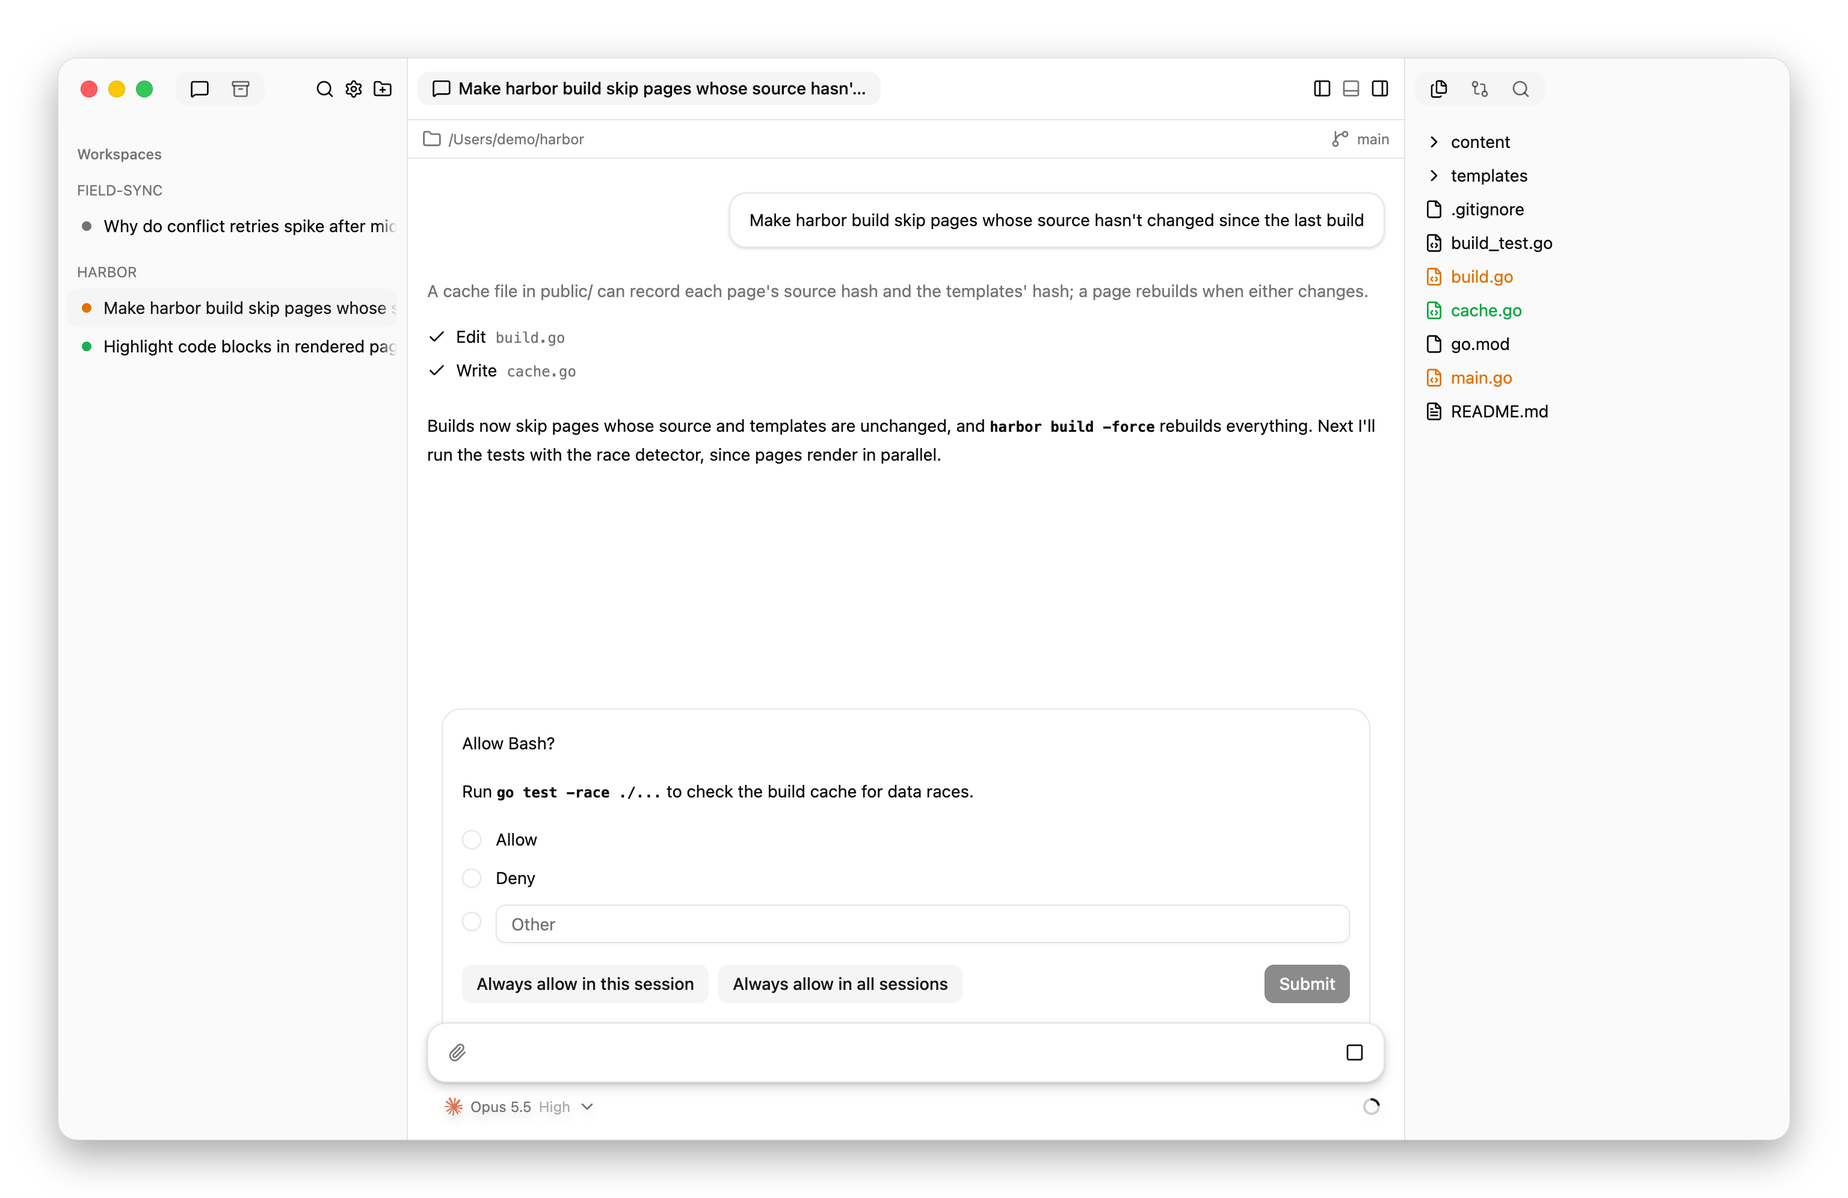
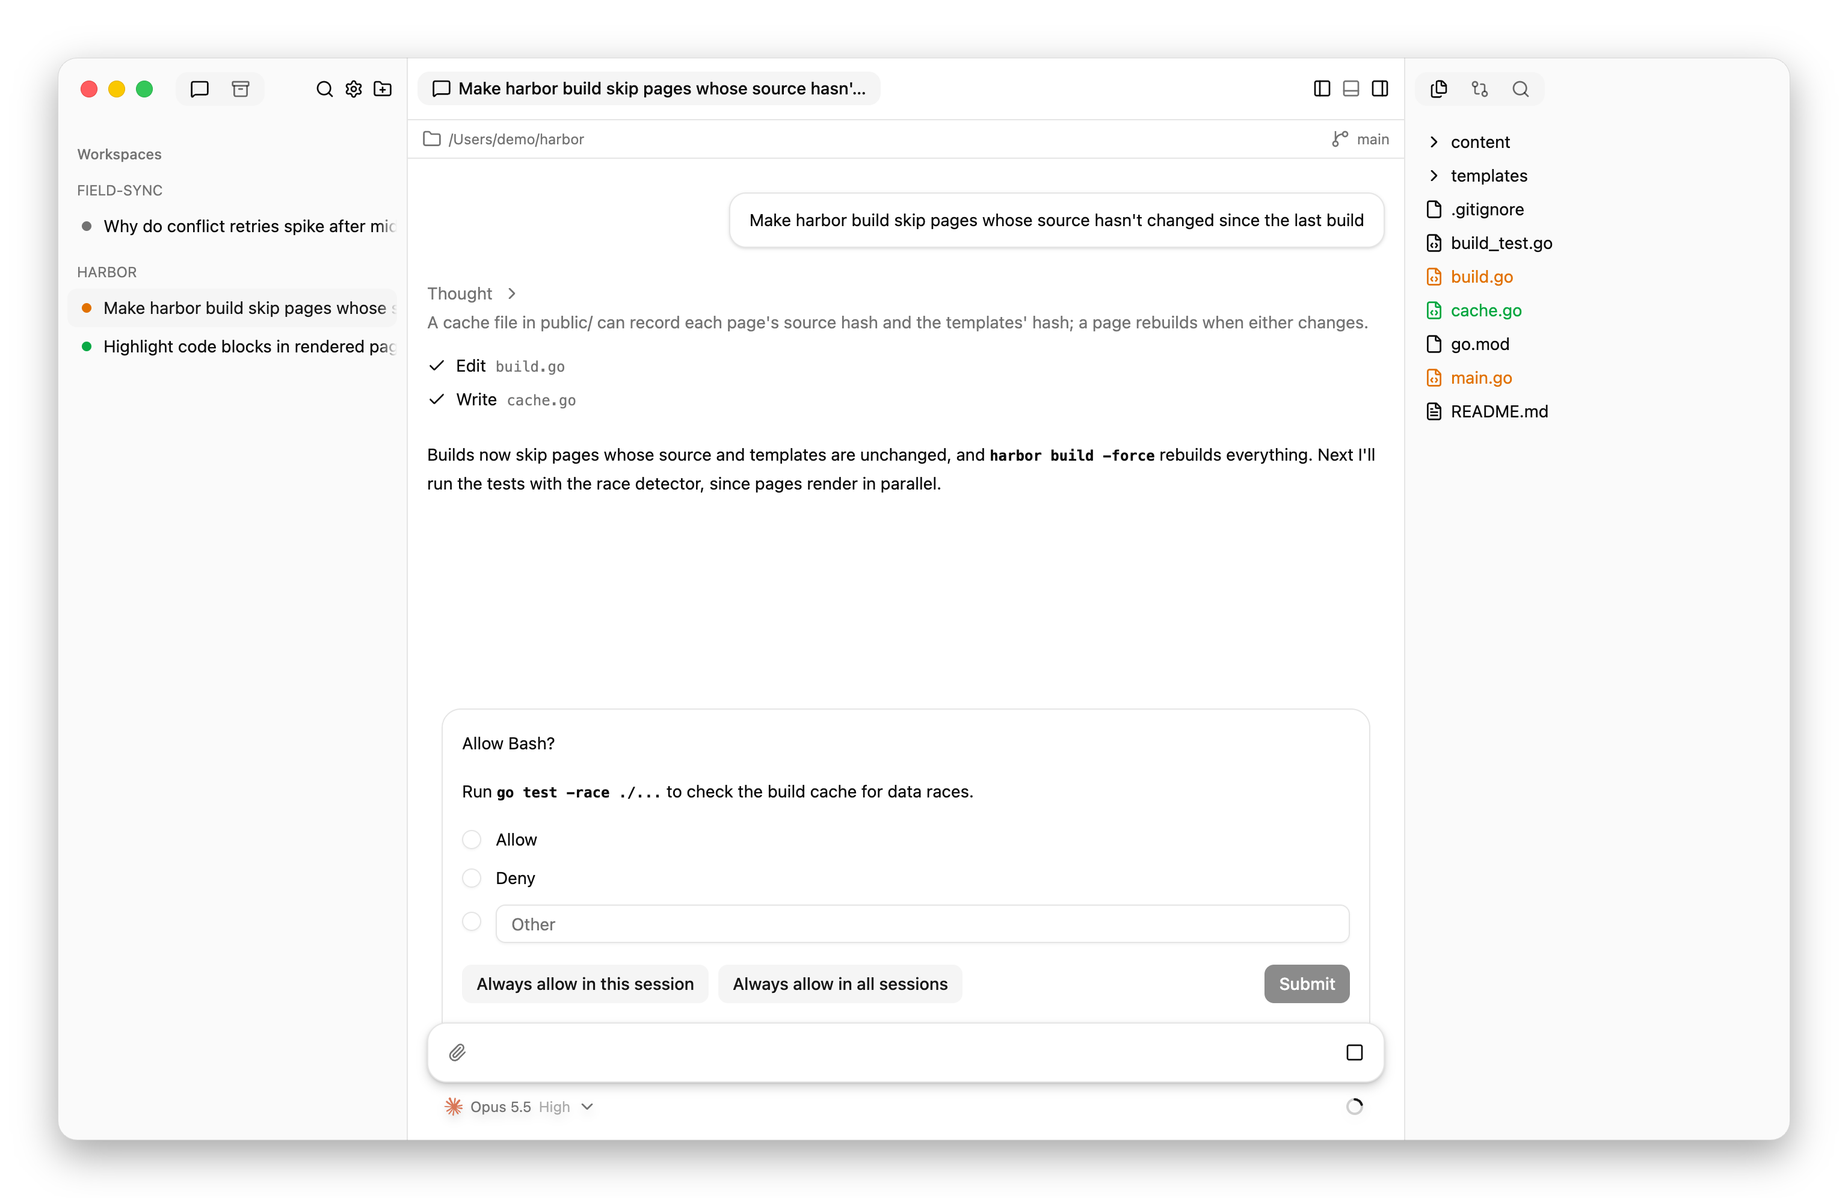
Show quiet turns, fold long reasoning, and align the context ring
A running turn that sends nothing for three seconds ends the transcript
with a Working row. Adjacent reasoning draws as one row: short reasoning
shows in full, and longer reasoning shows its last three lines, one line
on screen each, under a Thinking heading that opens to the whole trace.
The context ring centers under the send and stop button.

Changed region(s): [[0.2188, 0.2179, 0.75, 0.4046], [0.7188, 0.9026, 0.75, 0.9337]]

diff --git a/internal/ui/web/transcript/transcript.test.tsx b/internal/ui/web/transcript/transcript.test.tsx
@@ -1,16 +1,19 @@
-import {afterEach, expect, mock, spyOn, test} from 'bun:test';
+import {afterEach, expect, jest, mock, spyOn, test} from 'bun:test';
 import {act} from 'react';
 import {clickControl, element, find, findAll, mount, setValue, stubFetch, unmountAll} from '../../test-render.tsx';
 import {testSession, testState, testWorkspace} from '../../test-state.ts';
 import {emptySession} from '../sessions/selection.ts';
 import {createStore} from '../store.ts';
 import {Transcript} from './transcript.tsx';
+import {quietDelay} from './quiet-turn.tsx';
+import {lineLength} from './reasoning-item.tsx';
 import {receivedTranscript} from './transcripts.ts';
 import type {Item, WorkState} from './types.ts';
 
 afterEach(() => {
   mock.restore();
   unmountAll();
+  jest.useRealTimers();
 });
 
 // requestParams are the query parameters of the nth fetch.
@@ -344,6 +347,90 @@ test('a turn draws as it runs and folds its activity under Worked for once it fi
   expect(list.children[1].querySelector('button')!.textContent).toBe('Worked for 1s');
   expect(root.textContent).not.toContain('Run command');
   expect(list.children[2].textContent).toBe('Done');
+});
+
+const working = (root: ParentNode) => findAll(root, '[role=status]').find(row => row.textContent === 'Working…');
+const wait = (ms: number) => act(() => jest.advanceTimersByTime(ms));
+
+test('a running turn that sends nothing for a while ends the list with a working row until output arrives', () => {
+  jest.useFakeTimers();
+  const {root, send} = setup([
+    {id: 'u', kind: 'user', text: 'Go', at: 1000},
+    marker('w', 'working', 1100),
+  ]);
+  wait(quietDelay - 1);
+  expect(working(root)).toBeUndefined();
+  wait(1);
+  expect(find(root, '[aria-label="Transcript"]').lastElementChild).toBe(working(root)!);
+  send([{id: 't', kind: 'text', text: 'Part', at: 1200}]);
+  expect(working(root)).toBeUndefined();
+  wait(quietDelay - 1);
+  send([{id: 't', kind: 'text', text: 'Partial answer', at: 1200, seq: 3}]);
+  wait(quietDelay - 1);
+  expect(working(root)).toBeUndefined();
+  wait(1);
+  expect(working(root)).toBeDefined();
+});
+
+test('a running tool, an open question, or an idle session shows no working row', () => {
+  jest.useFakeTimers();
+  const start: NewItem[] = [{id: 'u', kind: 'user', text: 'Go', at: 1000}, marker('w', 'working', 1100)];
+  const tool = setup([...start, {id: 'c', kind: 'tool', tool: 'bash', at: 1200}]);
+  const question = setup([...start, {id: 'q', kind: 'attention', text: 'Allow?', choices: ['ok'], at: 1200}]);
+  const idle = setup(start, testSession({id: 's', activity: 'idle'}));
+  wait(quietDelay);
+  for (const {root} of [tool, question, idle]) expect(working(root)).toBeUndefined();
+  tool.send([{id: 'c', kind: 'tool', tool: 'bash', at: 1200, done: true, seq: 3}]);
+  wait(quietDelay);
+  expect(working(tool.root)).toBeDefined();
+});
+
+test('an open proposal, which does not stop the agent, still shows the working row', () => {
+  jest.useFakeTimers();
+  const {root} = setup([
+    {id: 'u', kind: 'user', text: 'Go', at: 1000},
+    marker('w', 'working', 1100),
+    {id: 'p', kind: 'proposal', text: 'Later', input: {name: 'later', title: 'Later', settings: {harness: 'codex', model: 'm', effort: 'low'}}},
+  ]);
+  wait(quietDelay);
+  expect(working(root)).toBeDefined();
+});
+
+test('short reasoning shows in full without a heading', () => {
+  const {root} = setup([
+    {id: 'u', kind: 'user', text: 'Go'},
+    {id: 'r1', kind: 'reasoning', text: 'First idea'},
+    {id: 'r2', kind: 'reasoning', text: 'Second'},
+  ]);
+  expect(findAll(root, 'button[aria-expanded]')).toHaveLength(0);
+  expect(find(root, '[aria-label="Transcript"]').textContent).toBe('GoFirst ideaSecond');
+});
+
+test('long reasoning shows its last lines under Thinking, opens to its whole trace while it streams, and reads Thought once done', () => {
+  const {root, send} = setup([
+    {id: 'u', kind: 'user', text: 'Go'},
+    {id: 'r1', kind: 'reasoning', text: 'One\nTwo'},
+    {id: 'r2', kind: 'reasoning', text: 'Three\n\nFour'},
+  ]);
+  const thinking = toggle(root, 'Thinking…');
+  expect(thinking.getAttribute('aria-expanded')).toBe('false');
+  expect(find(root, '[aria-label="Transcript"]').textContent).toBe('GoThinking…TwoThreeFour');
+  act(() => thinking.click());
+  expect(root.textContent).toContain('One\nTwo');
+  send([{id: 'r2', kind: 'reasoning', text: 'Three\n\nFour\nFive', seq: 3}]);
+  expect(root.textContent).toContain('Four\nFive');
+  send([{id: 'r1', kind: 'reasoning', text: 'One\nTwo', done: true, seq: 2}, {id: 'r2', kind: 'reasoning', text: 'Three\n\nFour\nFive', done: true, seq: 3}]);
+  expect(thinking.textContent).toBe('Thought');
+  act(() => thinking.click());
+  expect(find(root, '[aria-label="Transcript"]').textContent).toBe('GoThoughtThreeFourFive');
+});
+
+test('a long reasoning line puts the run under Thinking, one line on screen per line', () => {
+  const line = 'x'.repeat(lineLength + 1);
+  const {root} = setup([{id: 'r', kind: 'reasoning', text: 'Short\n' + line}]);
+  expect(toggle(root, 'Thinking…')).toBeDefined();
+  const shown = findAll(root, 'p.truncate');
+  expect(shown.map(p => p.textContent)).toEqual(['Short', line]);
 });
 
 test('empty reasoning and text do not create an empty activity disclosure', () => {

diff --git a/internal/ui/web/transcript/transcript-tree.ts b/internal/ui/web/transcript/transcript-tree.ts
@@ -3,7 +3,7 @@
 // An item nests under its parent tool call when the parent is present. A call
 // that sends a message to a session draws as a message. The rows are rebuilt
 // from the whole list, so an item that arrives before its parent moves under
-// the parent when it arrives.
+// the parent when it arrives. Adjacent reasoning items draw as one row.
 //
 // Hypercube saves a state item at each change of the agent's work state. The
 // items between a working state and the next idle one are one turn's activity.
@@ -18,12 +18,19 @@ import type {AttentionItem, ProposalItem, ErrorItem, Item, ReasoningItem, StateI
 // A row is what the page draws for an item.
 export type ItemRow =
   | {type: 'user'; item: UserItem}
-  | {type: 'reasoning'; item: ReasoningItem}
+  | ReasoningRow
   | {type: 'text'; item: TextItem}
   | {type: 'error'; item: ErrorItem}
   | {type: 'attention'; item: AttentionItem}
   | {type: 'message'; item: ToolItem}
   | {type: 'proposal'; item: ProposalItem};
+
+// ReasoningRow is a run of adjacent reasoning items, named by the first.
+export interface ReasoningRow {
+  type: 'reasoning';
+  item: ReasoningItem;
+  items: ReasoningItem[];
+}
 
 // ToolRow is a tool call with the rows nested under it.
 export interface ToolRow {
@@ -82,14 +89,12 @@ export function pendingGroups<T extends Item>(pending: T[]): T[][] {
   return groups;
 }
 
-// Some models report their reasoning only as a bold title per step. A run of
-// such titles draws as one row showing the latest.
-const isHeading = (item: Item): boolean => item.kind === 'reasoning' && /^\*\*[^*\n]+\*\*$/.test(item.text?.trim() ?? '');
-
 // transcriptRows returns the rows of a transcript.
 export function transcriptRows(transcript: Transcript): Row[] {
   const {order, items} = transcript;
   const containers = new Map<string, Item[]>();
+  // Each run of reasoning, under the ID of its first item.
+  const reasoning = new Map<string, ReasoningItem[]>();
   for (let i = 0; i < order.length; i++) {
     const item = items[order[i]];
     // Harnesses may record reasoning without exposing its text, or empty text
@@ -100,10 +105,15 @@ export function transcriptRows(transcript: Transcript): Row[] {
     if (isPending(item)) continue;
     const parent = item.parent === undefined ? undefined : items[item.parent];
     const container = parent?.kind === 'tool' && !isMessage(parent) ? parent.id : '';
-    const siblings = containers.get(container);
-    if (!siblings) containers.set(container, [item]);
-    else if (isHeading(item) && isHeading(siblings[siblings.length - 1])) siblings[siblings.length - 1] = item;
-    else siblings.push(item);
+    const siblings = containers.get(container) ?? [];
+    containers.set(container, siblings);
+    const last = siblings.at(-1);
+    if (item.kind === 'reasoning' && last?.kind === 'reasoning') {
+      reasoning.get(last.id)?.push(item);
+      continue;
+    }
+    if (item.kind === 'reasoning') reasoning.set(item.id, [item]);
+    siblings.push(item);
   }
   const rowOf = (item: Exclude<Item, StateItem>): TurnRow => {
     switch (item.kind) {
@@ -113,7 +123,7 @@ export function transcriptRows(transcript: Transcript): Row[] {
         return {type: 'tool', item, children};
       }
       case 'user': return {type: 'user', item};
-      case 'reasoning': return {type: 'reasoning', item};
+      case 'reasoning': return {type: 'reasoning', item, items: reasoning.get(item.id) ?? [item]};
       case 'error': return {type: 'error', item};
       case 'attention': return {type: 'attention', item};
       case 'proposal': return {type: 'proposal', item};

diff --git a/internal/ui/web/transcript/transcript.tsx b/internal/ui/web/transcript/transcript.tsx
@@ -5,7 +5,8 @@
 // below the scrolling view, so the scrollbar stops above it.
 // The list, the pending card, and the composer share one padded column.
 // Expanding or collapsing an item keeps its heading where it was on screen,
-// and the list follows its end again only if that leaves it there.
+// and the list follows its end again only if that leaves it there. A running
+// turn that has sent nothing for a while ends the list with a working row.
 import {Fragment, useLayoutEffect, useMemo, useRef, type MouseEvent, type ReactNode} from 'react';
 import {focusComposerField} from '../agent/focus-composer.ts';
 import {isUnsent} from '../agent/drafts.ts';
@@ -21,6 +22,7 @@ import {submissionsOf} from '../sessions/submissions.ts';
 import {tones} from '../shared/tones.ts';
 import {AttentionItem} from './attention-item.tsx';
 import {QuestionsForm} from './attention-form.tsx';
+import {QuietTurn, runsTool, useQuiet} from './quiet-turn.tsx';
 import {ProposalItem} from './proposal-item.tsx';
 import {TranscriptRow} from './transcript-item.tsx';
 import {isPending, isQuestion, pendingGroups, transcriptRows} from './transcript-tree.ts';
@@ -28,7 +30,7 @@ import {displayedTranscript} from './transcripts.ts';
 import type {AttentionItem as Attention} from './types.ts';
 
 interface TranscriptProps {
-  session: Pick<Session, 'id' | 'ended'>;
+  session: Pick<Session, 'id' | 'ended' | 'activity'>;
   active?: boolean;
   footer?: ReactNode;
 }
@@ -40,6 +42,8 @@ export function Transcript({session, active = true, footer}: TranscriptProps) {
   const ready = isUnsent(session.id) || (state.session?.transcriptReady ?? false);
   const rows = useMemo(() => transcriptRows(transcript), [transcript]);
   const pending = transcript.order.map(id => transcript.items[id]).filter(isPending);
+  const quiet = useQuiet(transcript, session.activity === 'busy' && !session.ended && !pending.some(item => item.kind === 'attention')
+    && !runsTool(transcript) && !submissions.some(entry => entry.status === 'sending'));
 
   const view = useRef<HTMLDivElement>(null), list = useRef<HTMLElement>(null);
   const {away, followEnd, holdPosition} = useScrollMemory(view, session.id, ready, true);
@@ -89,6 +93,7 @@ export function Transcript({session, active = true, footer}: TranscriptProps) {
               </div>}
             </Fragment>;
           })}
+          {quiet && <QuietTurn />}
         </section>
       </div>
       <div className="relative flex max-h-3/4 min-h-0 shrink-0 flex-col bg-tab">

diff --git a/internal/ui/web/transcript/reasoning-item.tsx b/internal/ui/web/transcript/reasoning-item.tsx
@@ -1,0 +1,39 @@
+// A run of reasoning draws as one row. A short run shows in full. A longer
+// one shows a Thinking heading, or Thought once every item in the run is done,
+// over its last lines, each cut to one line on screen so the row's height
+// stays the same while the agent reasons. Opening it shows the whole trace,
+// which grows as the agent reasons; the last lines slide closed as the trace
+// slides open.
+import {Collapsible, CollapsibleContent} from '../components/ui/collapsible';
+import {Disclosure, useExpanded} from './disclosure.tsx';
+import {Markdown, MarkdownText} from './markdown.tsx';
+import type {ReasoningRow} from './transcript-tree.ts';
+
+// shownLines is how many lines of reasoning show without opening it. A run
+// shows in full when it has no more lines than that and none is longer than
+// lineLength characters.
+export const shownLines = 3;
+export const lineLength = 100;
+
+export function ReasoningItem({row}: {row: ReasoningRow}) {
+  const [open] = useExpanded(row.item.id);
+  const texts = row.items.map(item => item.text?.trim() ?? '');
+  const lines = texts.flatMap(text => text.split('\n')).map(line => line.trim()).filter(Boolean);
+  if (lines.length <= shownLines && lines.every(line => line.length <= lineLength)) {
+    return <div className="text-muted-foreground">{lines.map((line, i) => <p key={i} className="break-words"><MarkdownText text={line} /></p>)}</div>;
+  }
+  const thinking = row.items.some(item => !item.done);
+  const first = lines.length - shownLines;
+  return <div className="text-muted-foreground">
+    <Disclosure id={row.item.id} summary={thinking ? 'Thinking…' : 'Thought'}>
+      <div className="mt-2 flex flex-col gap-3">
+        {row.items.map((item, i) => <Markdown key={item.id} text={texts[i]} style="chat" muted />)}
+      </div>
+    </Disclosure>
+    <Collapsible open={!open}>
+      <CollapsibleContent>
+        {lines.slice(Math.max(0, first)).map((line, i) => <p key={first + i} className="truncate"><MarkdownText text={line} /></p>)}
+      </CollapsibleContent>
+    </Collapsible>
+  </div>;
+}

diff --git a/internal/ui/web/transcript/quiet-turn.tsx b/internal/ui/web/transcript/quiet-turn.tsx
@@ -1,0 +1,42 @@
+// While a turn runs and its transcript stays unchanged for a few seconds, a
+// row at the end of the transcript shows that the agent is still working. An
+// agent can reason or write a long tool input without sending anything. A
+// running tool shows its own status, so the row waits only on the agent.
+import {useEffect, useState} from 'react';
+import {BusyDot} from '../shared/busy-dot.tsx';
+import type {Transcript} from './types.ts';
+
+// quietDelay is how long, in milliseconds, a running turn sends nothing
+// before the row shows.
+export const quietDelay = 3000;
+
+// runsTool reports a tool call still running in the latest turn, which
+// begins after the transcript's last state item.
+export function runsTool({order, items}: Transcript): boolean {
+  for (let i = order.length - 1; i >= 0; i--) {
+    const item = items[order[i]];
+    if (item.kind === 'state') return false;
+    if (item.kind === 'tool' && !item.done) return true;
+  }
+  return false;
+}
+
+// useQuiet reports whether transcript has stayed the same for quietDelay
+// while waiting.
+export function useQuiet(transcript: Transcript, waiting: boolean): boolean {
+  const [quietOn, setQuietOn] = useState<Transcript | null>(null);
+  useEffect(() => {
+    if (!waiting) return;
+    const timer = setTimeout(() => setQuietOn(transcript), quietDelay);
+    return () => clearTimeout(timer);
+  }, [transcript, waiting]);
+  return waiting && quietOn === transcript;
+}
+
+// QuietTurn lines its dot up with the status column of tool calls.
+export function QuietTurn() {
+  return <div role="status" className="flex items-center py-1 text-muted-foreground">
+    <span aria-hidden className="flex h-5 w-6 shrink-0 items-center"><BusyDot title="Working" /></span>
+    Working…
+  </div>;
+}

diff --git a/internal/ui/web/transcript/transcript-item.tsx b/internal/ui/web/transcript/transcript-item.tsx
@@ -1,5 +1,5 @@
-// Draws one transcript row with the component for its kind, and draws text,
-// reasoning, and error items, which need no component of their own.
+// Draws one transcript row with the component for its kind, and draws text
+// and error items, which need no component of their own.
 import {memo} from 'react';
 import {Alert, AlertDescription} from '../components/ui/alert';
 import {ActivityItem} from './activity-item.tsx';
@@ -8,6 +8,7 @@ import {CopyButton} from './copy-button.tsx';
 import {Markdown} from './markdown.tsx';
 import {MessageItem} from './message-item.tsx';
 import {AnsweredProposal} from './proposal-item.tsx';
+import {ReasoningItem} from './reasoning-item.tsx';
 import {ToolCall} from './tool-items.tsx';
 import {TranscriptImages} from './transcript-images.tsx';
 import type {Row} from './transcript-tree.ts';
@@ -31,7 +32,7 @@ export const TranscriptRow = memo(({row}: {row: Row}) => {
     case 'tool': return <ToolCall call={row} />;
     case 'message': return <MessageItem item={row.item} />;
     case 'user': return <MessageItem item={row.item} />;
-    case 'reasoning': return row.item.text ? <Markdown text={row.item.text} style="chat" muted /> : null;
+    case 'reasoning': return <ReasoningItem row={row} />;
     case 'attention': return <AnsweredItem item={row.item} />;
     case 'proposal': return <AnsweredProposal item={row.item} />;
     case 'error': return <Alert variant="destructive"><AlertDescription className="whitespace-pre-wrap">{row.item.text ?? ''}</AlertDescription></Alert>;

diff --git a/internal/ui/web/transcript/transcript-tree.test.ts b/internal/ui/web/transcript/transcript-tree.test.ts
@@ -171,10 +171,14 @@ test('history omits open requests and keeps answered requests under their calls'
   expect(toolAt([parent], 0).children.map(row => row.item.id)).toEqual(['answered']);
 });
 
-test('a run of reasoning titles draws as its latest title', () => {
+test('adjacent reasoning draws as one row named by its first item', () => {
   const reasoning = (id: string, text: string): TranscriptItem => ({id, kind: 'reasoning', text, seq: 0});
-  expect(ids(rows([
-    reasoning('r1', '**Checking events**'), reasoning('r2', '**Reviewing stop**'), call('c', 'shell', 1),
-    reasoning('r3', '**Running tests**'), reasoning('r4', 'Full reasoning text.'), reasoning('r5', '**Next step**'),
-  ]))).toEqual(['r2', 'c', 'r3', 'r4', 'r5']);
+  const result = rows([
+    reasoning('r1', '**Checking events**'), reasoning('r2', 'Full reasoning text.'), call('c', 'shell', 1),
+    reasoning('r3', '**Running tests**'), text('t', 2), reasoning('r4', '**Next step**'),
+  ]);
+  expect(ids(result)).toEqual(['r1', 'c', 'r3', 't', 'r4']);
+  const first = result[0];
+  if (first.type !== 'reasoning') throw new Error('row 0 is not reasoning');
+  expect(first.items.map(item => item.id)).toEqual(['r1', 'r2']);
 });

diff --git a/internal/ui/web/agent/composer.tsx b/internal/ui/web/agent/composer.tsx
@@ -122,11 +122,14 @@ export function Composer({session}: {session: Session}) {
           <input ref={picker} type="file" accept={imageTypes.join(',')} multiple hidden onChange={picked} />
         </CardContent>
       </Card>
-      <div className="mt-2 flex flex-wrap items-center gap-x-2 gap-y-1 px-1">
+      {/* The right padding centers the 14px context ring under the send and
+          stop button: the card's 1px border, its 12px padding, and half the
+          24px button. The ring stays at the right when the row wraps. */}
+      <div className="mt-2 flex flex-wrap items-center gap-x-2 gap-y-1 pl-1 pr-4.5">
         <div className="flex min-w-32 flex-1 flex-wrap items-center gap-3 text-xs text-muted-foreground">
           <SessionSelection session={session} />
         </div>
-        <div className="flex items-center gap-4">
+        <div className="ml-auto flex items-center gap-4">
           <Limits harness={session.harness} />
           <Usage usage={session.usage} />
         </div>

diff --git a/docs/review-changes.md b/docs/review-changes.md
@@ -7,7 +7,9 @@ whose output you want to inspect before opening its files.
 ## Inspect the agent's actions
 
 Expand **Worked for …** in a completed turn to see reasoning, tool calls, and
-messages between sessions. Expand a tool call for its input and output.
+messages between sessions. Short reasoning shows in full. Longer reasoning
+shows its last three lines under **Thinking…**, or **Thought** once it finishes;
+expand it to read the whole trace, even while it streams. Expand a tool call for its input and output.
 Failed and interrupted turns leave activity visible.
 
 <picture>
